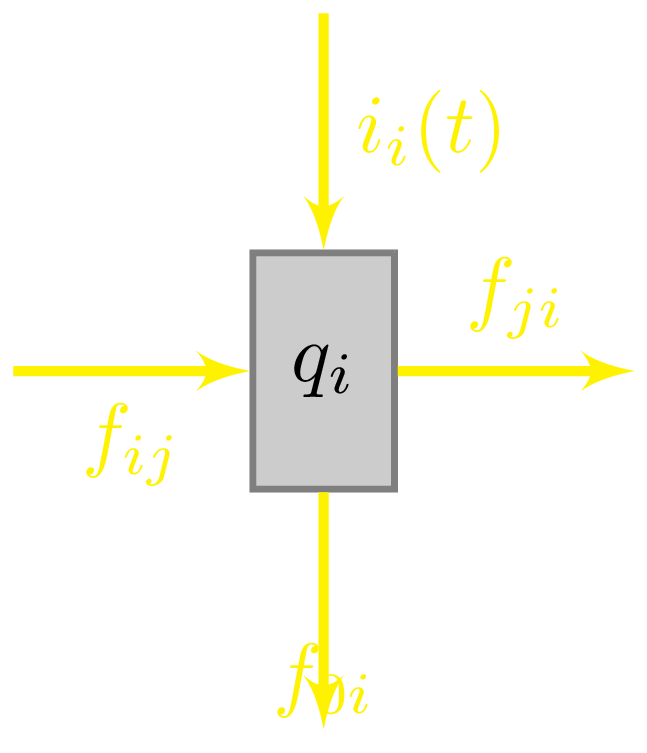
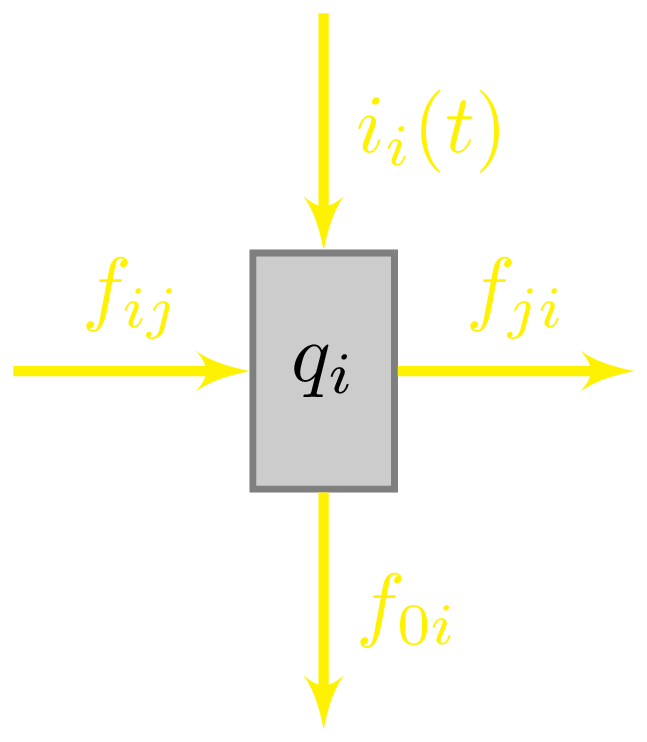
update figures

diff --git a/FIGS/compartmental_model_vertical_blackBG.tex b/FIGS/compartmental_model_vertical_blackBG.tex
@@ -23,7 +23,7 @@ minimum height = 1cm]
 	%% Flows
 	\path [line, very thick] (h1) to node [midway, right] (TextNode) {$i_i(t)$} (S);
 	\path [line, very thick] (S) to node [midway, above] (TextNode) {$f_{ji}$} (h2);
-	\path [line, very thick] (h3) to node [midway, below] (TextNode) {$f_{ij}$} (S);
-	\path [line, very thick] (S) to node [midway, below] (TextNode) {$f_{0i}$} (h4);
+	\path [line, very thick] (h3) to node [midway, above] (TextNode) {$f_{ij}$} (S);
+	\path [line, very thick] (S) to node [midway, right] (TextNode) {$f_{0i}$} (h4);
 \end{tikzpicture}
 \end{document}

diff --git a/SLIDES_MD/2022-10-OMNI-02-basic-math-epi.md b/SLIDES_MD/2022-10-OMNI-02-basic-math-epi.md
@@ -80,13 +80,19 @@ img[alt~="center"] {
 - Compartmental models have become synonymous with epidemiological models
 - While epidemic models have mostly been compartmental, most development in the 1970s-1980s was not about epidemiological models in particular
 - See in particular the works of John Jacquez, Carl Simon, GG Walter
-- Forgotten to a large extent, injustly: there are some really nice results in the field
+- Injustly forgotten to a large extent; there are some really nice results in the field
 
 ---
 
 # Compartment ([Jacquez 1979](https://doi-org.uml.idm.oclc.org/10.1016/B978-0-12-434180-7.50021-8))
 
 > A **compartment** is an amount of some material which acts kinetically like a distinct, homogeneous, well-mixed amount of material. A **compartmental system** consists of one or more compartments which interact by exchanging the material. There may be inputs into one or more compartments from outside the system and there may be excretions from the compartments of the system. 
+
+---
+
+![bg left:25% height:600px](https://raw.githubusercontent.com/julien-arino/omni-course-part1/main/FIGS/compartmental_model_vertical_blackBG.png)
+
+# <!--fit-->A compartment
 
 ---
 
